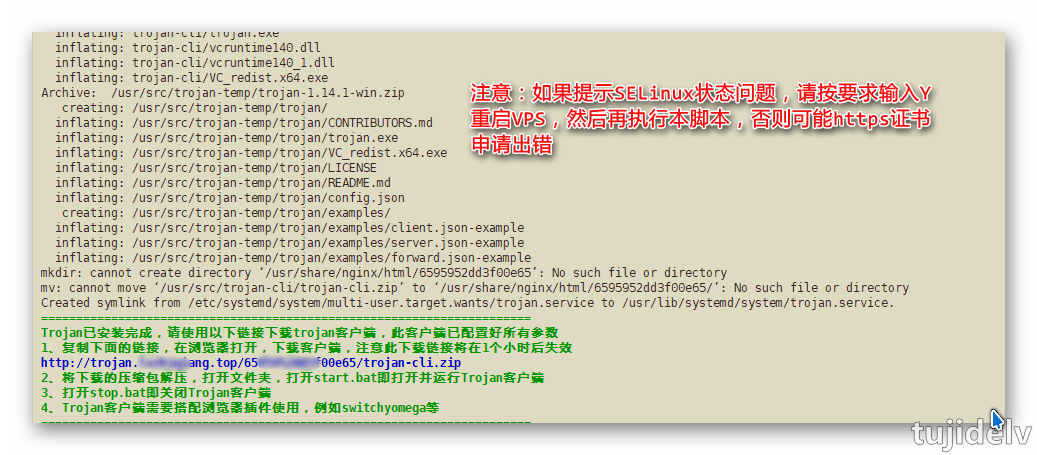
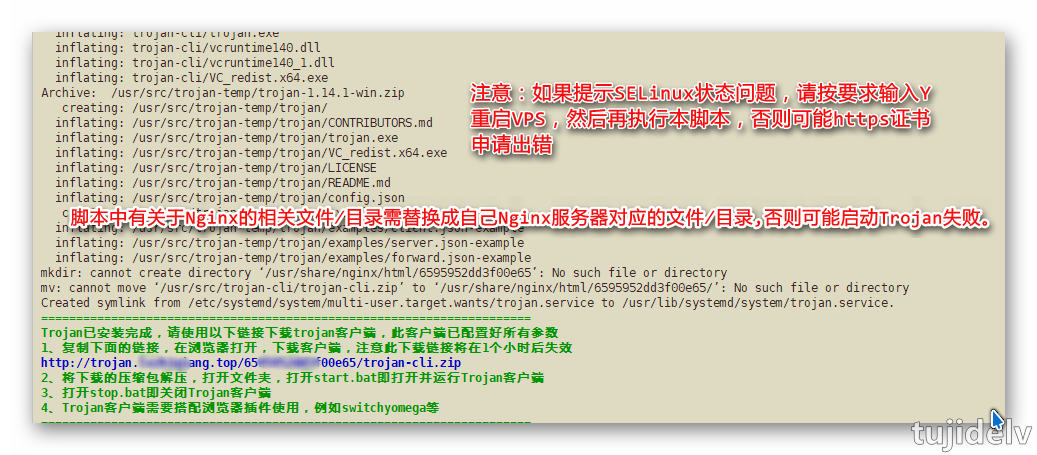
add:trojan科学上网v2

Changed region(s): [[0.0617, 0.4308, 0.9566, 0.5231]]

diff --git a/source/_posts/st-trojan-basic.md b/source/_posts/st-trojan-basic.md
@@ -12,6 +12,7 @@ tags:
 ## 目录
 
 - [简介](#简介)
+- [部署](#部署)
 - [参考链接](#参考链接)
 - [结束语](#结束语)
 
@@ -52,14 +53,69 @@ tags:
 ![抱歉,图片休息了](st-trojan-basic/st-trojan-basic-001.png "trojan脚本主界面")
 
 2. 选择安装trojan，然后输入解析到VPS的域名并回车（不要带http://），开始安装，然后等待安装完成即可。
-    - **注：脚本中有关于Nginx的相关文件/目录需替换成自己服务器对应的文件/目录,否则可能启动Trojan失败。**
 ![抱歉,图片休息了](st-trojan-basic/st-trojan-basic-002.png "trojan安装完成")
-3. 安装完成后，会展示一条下载地址，复制地址，并下载下来即可。
+
+---
+对于有安装宝塔面板的前提下,一般会事先安装好Nginx,而且已搭建Https的网站,如何已Trojan共存
+```
+方法一：让自己所有搭建的网站取消SSL证书,这样Nginx就能只启动80端口,而不会与Trojan的443端口冲突.只是不能用Https方式访问自己搭建的网站了.
+方法二：可更改Trojan运行在非443端口上,修改相关配置文件(服务端和客户端)即可;然后通过Nginx反向代理Trojan域名到该非443端口上.
+```
+
+---
 
 ### `客户端`
 
+- **Windows系统**
+    ```
+    服务端安装完成后，会展示一条下载地址，复制地址，并下载下来运行即可。
+    如果你真的忘记下载了，那么进入/usr/share/nginx/html/目录下，找到一个乱码文件夹，进入会看到客户端文件，使用sftp下载下来即可。
+    解压缩下载的trojan-cli.zip的压缩包，进入文件夹并开启Trojan服务，Trojan会监听本地1080端口。
+    ```
+![抱歉,图片休息了](st-trojan-basic/st-trojan-basic-003.png "trojan客户端")
+    ```
+    1.如果软件支持配置socks5,直接指向127.0.0.1:1080即可.如Firefox,IDM等.
+    2.如果软件不支持配置socks5,可选择v2rayN/sstap/sockscap64/supercap等软件曲线实现代理.
+    3.浏览器插件:谷歌浏览器--SwitchyOmega
+    ```
+![抱歉,图片休息了](st-trojan-basic/st-trojan-basic-004.png "SwitchyOmega设置")    
+---
+►V2rayN客户端：<https://github.com/2dust/v2rayN/releases>
+►SocksCap64：<https://www.sockscap64.com/sockscap-64-free-download-zh-hans>
+►SSTap：<https://www.sockscap64.com/changelog-of-sstap>
+►SwitchyOmega情景模式：<img src="st-trojan-basic/dowload.png" width="16" height="16" align="center" />[网盘下载](https://pan.baidu.com/s/1nN60uMMsit4XNYS90eASaw) `提取码8cp7`
+►SwitchyOmega规则GFWList：<https://github.com/gfwlist/gfwlist>
 
+---
+
+- **Mac系统**
+    ```
+    1.如果软件支持配置socks5,直接指向127.0.0.1:1080即可.如Firefox,IDM等.
+    2.如果软件不支持配置socks5,可选择v2rayU/mellow等软件曲线实现代理.
+    3.浏览器插件:谷歌浏览器--SwitchyOmega
+    ```
+---
+►Trojan Mac客户端：<https://github.com/trojan-gfw/trojan/releases>
+►V2rayU客户端：<https://github.com/yanue/V2rayU/releases>
+
+---
+- **Android系统**
+![抱歉,图片休息了](st-trojan-basic/st-trojan-basic-005.png "Igniter客户端")
+---
+►Android客户端（选择app-release.apk）：<https://github.com/trojan-gfw/igniter/releases>
+►Trojan项目地址：<https://github.com/trojan-gfw/trojan>
+
+---
+
+- **IOS系统**
+
+需下载Shadowrocket软件
 
 ## 参考链接
 
+<https://www.youtube.com/watch?v=eiI2e4gnO4w&t=610s>
+<https://www.youtube.com/watch?v=0_b34pfmhzA>
+
 ## 结束语
+
+- 未完待续...
